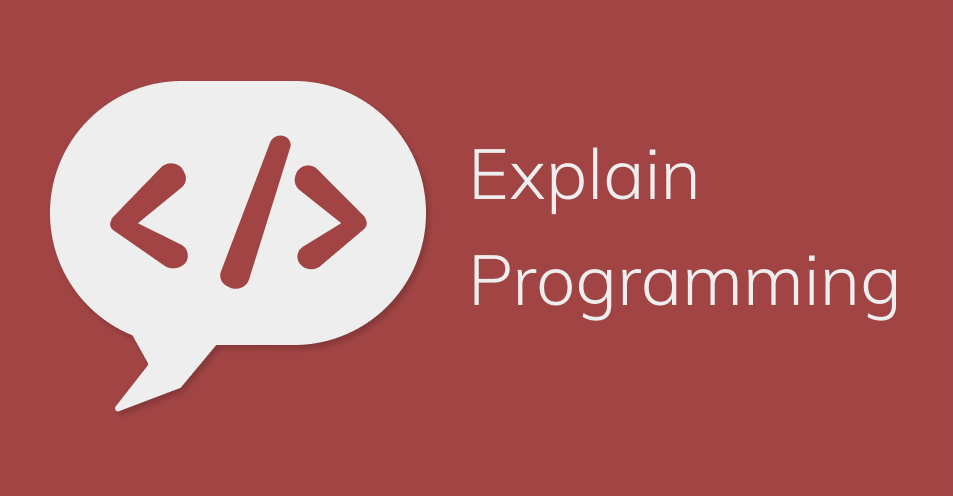
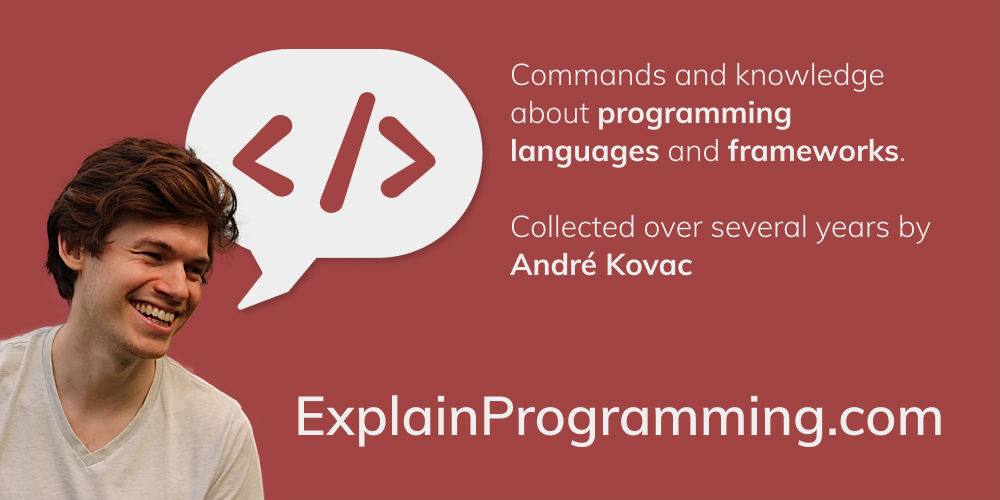
Create new twitter shared image - Fix aspect ratio to be 2:1

diff --git a/src/components/seo.js b/src/components/seo.js
@@ -66,8 +66,17 @@ function SEO({ description, lang, meta, title }) {
           content: `summary_large_image`,
         },
         {
+          // Use twitter card validator to validate Twitter image:
+          // https://cards-dev.twitter.com/validator
+          // Type 'summary_large_image': Image has to have an aspect ratio of 2:1
+          // Type 'summary': Image has to have an aspect ratio of 1:1
           name: `twitter:image`,
           content: metaImage,
+        },
+        {
+          // Alt text for the visually impaired
+          name: `twitter:image:alt`,
+          content: `Image about what the "Explain programming" website is about - commands and knowledge about programming languages and frameworks. Collected over several years by André Kovac`,
         },
         {
           name: `twitter:creator`,
